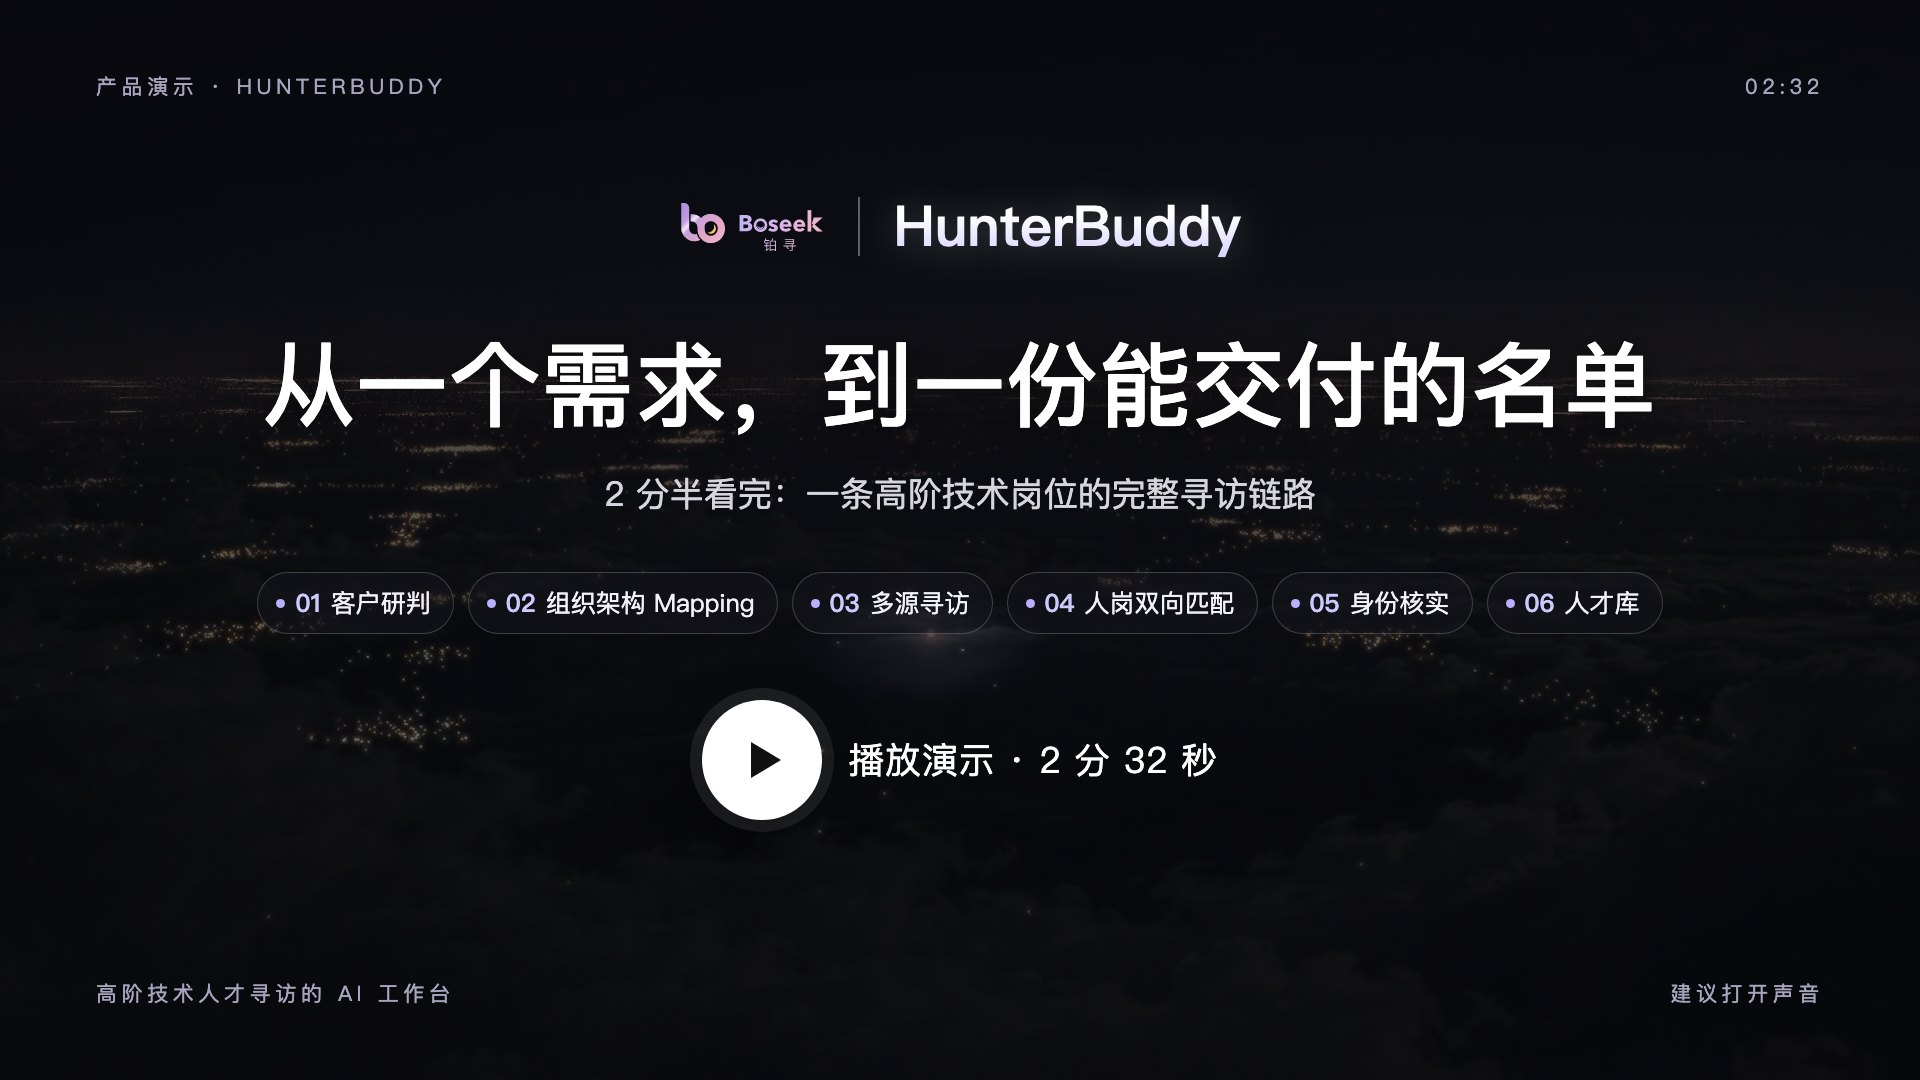
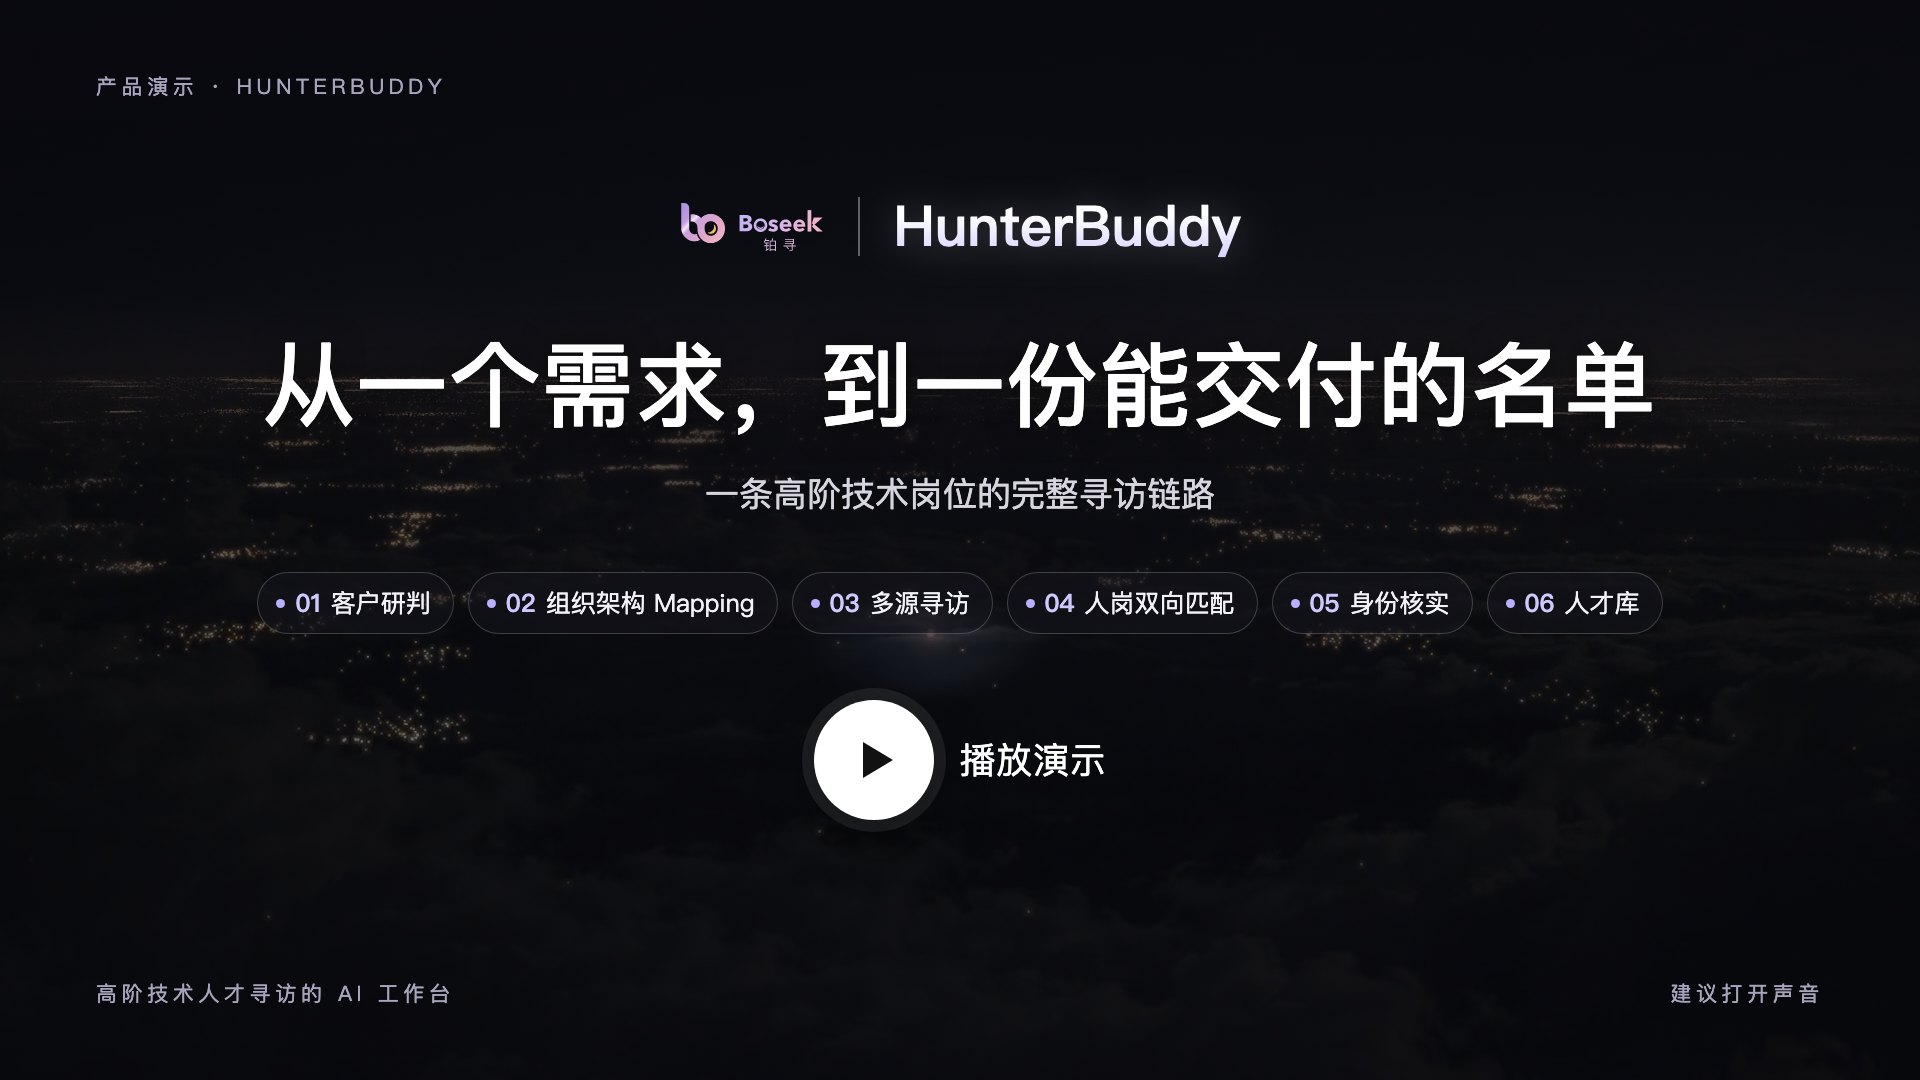
短片区文案调整、封面去掉时长
- 删掉“从一句岗位需求出发，把条件拆开……把这次判断存下来。”（英文同步删）
- 介绍句改为“HunterBuddy 是一款面向 HR 与专业猎头的 AI 人才工作台。<br>它不替你去沟通，而是让你在开口之前，就知道这个人做过什么、做到什么程度、该从哪里切入。”，英文同步
- 短片封面去掉“2 分半看完：”、右上角“02:32”和“播放演示 · 2 分 32 秒”里的时长（中英文封面重出，缓存版本 v=14 / v=10）

Changed region(s): [[0.3438, 0.6417, 0.625, 0.7639], [0.3125, 0.4278, 0.6875, 0.4889], [0.9062, 0.0611, 0.9375, 0.0917]]

diff --git a/public/landing-redesign/en/index.html b/public/landing-redesign/en/index.html
@@ -295,8 +295,7 @@
           <p class="n-kicker">Product demo</p>
           <h2 class="n-display" id="n-intro-title">From one brief to a list you can deliver</h2>
           <div class="n-lede">
-            <p>Start from a single line about the role: break down the requirements, gather every lead, connect the relationships, and keep the judgment you made for next time.</p>
-            <p>HunterBuddy is an AI talent workbench for HR teams and professional headhunters. It doesn’t do the talking for you. It makes sure that before you say a word, you already know what this person has done, how far they took it, and where to begin.</p>
+            <p>HunterBuddy is an AI talent workbench for HR teams and professional headhunters.<br />It doesn’t reach out for you. Instead, before you say a word, you already know what this person has done, how far they took it, and where to begin.</p>
           </div>
           <p class="n-film-title">One senior technical search, from start to finish</p>
           <figure class="n-film-frame" id="film" tabindex="-1">
@@ -305,7 +304,7 @@
               controls
               preload="none"
               playsinline
-              poster="../assets/film-poster-en.jpg?v=9"
+              poster="../assets/film-poster-en.jpg?v=10"
               src="../assets/hunterbuddy-film-en.mp4?v=10"
               aria-label="HunterBuddy product demo"
             ></video>

diff --git a/public/landing-redesign/index.html b/public/landing-redesign/index.html
@@ -295,8 +295,7 @@
           <p class="n-kicker">产品演示</p>
           <h2 class="n-display" id="n-intro-title">从一个需求，到一份能交付的名单</h2>
           <div class="n-lede">
-            <p>从一句岗位需求出发，把条件拆开、把线索找全、把关系连起来，最后把这次判断存下来。</p>
-            <p>HunterBuddy 是一款面向 HR 与专业猎头的 AI 人才工作台。它不替你去谈，它让你在开口之前，已经知道这个人做过什么、做到什么程度、该从哪里切入。</p>
+            <p>HunterBuddy 是一款面向 HR 与专业猎头的 AI 人才工作台。<br />它不替你去沟通，而是让你在开口之前，就知道这个人做过什么、做到什么程度、该从哪里切入。</p>
           </div>
           <p class="n-film-title">一条高阶技术岗位的完整寻访链路</p>
           <figure class="n-film-frame" id="film" tabindex="-1">
@@ -305,7 +304,7 @@
               controls
               preload="none"
               playsinline
-              poster="assets/film-poster.jpg?v=13"
+              poster="assets/film-poster.jpg?v=14"
               src="assets/hunterbuddy-film.mp4?v=14"
               aria-label="HunterBuddy 产品演示短片"
             ></video>

diff --git a/scripts/build-redesign-en-home.py b/scripts/build-redesign-en-home.py
@@ -151,12 +151,10 @@ r('>观看演示</a>', '>Watch the demo</a>')
 # ---------- product demo ----------
 r('<p class="n-kicker">产品演示</p>', '<p class="n-kicker">Product demo</p>')
 r('<h2 class="n-display" id="n-intro-title">从一个需求，到一份能交付的名单</h2>', '<h2 class="n-display" id="n-intro-title">From one brief to a list you can deliver</h2>')
-r('<p>从一句岗位需求出发，把条件拆开、把线索找全、把关系连起来，最后把这次判断存下来。</p>',
-  '<p>Start from a single line about the role: break down the requirements, gather every lead, connect the relationships, and keep the judgment you made for next time.</p>')
-r('<p>HunterBuddy 是一款面向 HR 与专业猎头的 AI 人才工作台。它不替你去谈，它让你在开口之前，已经知道这个人做过什么、做到什么程度、该从哪里切入。</p>',
-  '<p>HunterBuddy is an AI talent workbench for HR teams and professional headhunters. It doesn’t do the talking for you. It makes sure that before you say a word, you already know what this person has done, how far they took it, and where to begin.</p>')
+r('<p>HunterBuddy 是一款面向 HR 与专业猎头的 AI 人才工作台。<br />它不替你去沟通，而是让你在开口之前，就知道这个人做过什么、做到什么程度、该从哪里切入。</p>',
+  '<p>HunterBuddy is an AI talent workbench for HR teams and professional headhunters.<br />It doesn’t reach out for you. Instead, before you say a word, you already know what this person has done, how far they took it, and where to begin.</p>')
 r('<p class="n-film-title">一条高阶技术岗位的完整寻访链路</p>', '<p class="n-film-title">One senior technical search, from start to finish</p>')
-r('poster="../assets/film-poster.jpg?v=13"', 'poster="../assets/film-poster-en.jpg?v=9"')
+r('poster="../assets/film-poster.jpg?v=14"', 'poster="../assets/film-poster-en.jpg?v=10"')
 r('src="../assets/hunterbuddy-film.mp4?v=14"', 'src="../assets/hunterbuddy-film-en.mp4?v=10"')
 r('aria-label="HunterBuddy 产品演示短片"', 'aria-label="HunterBuddy product demo"')
 
